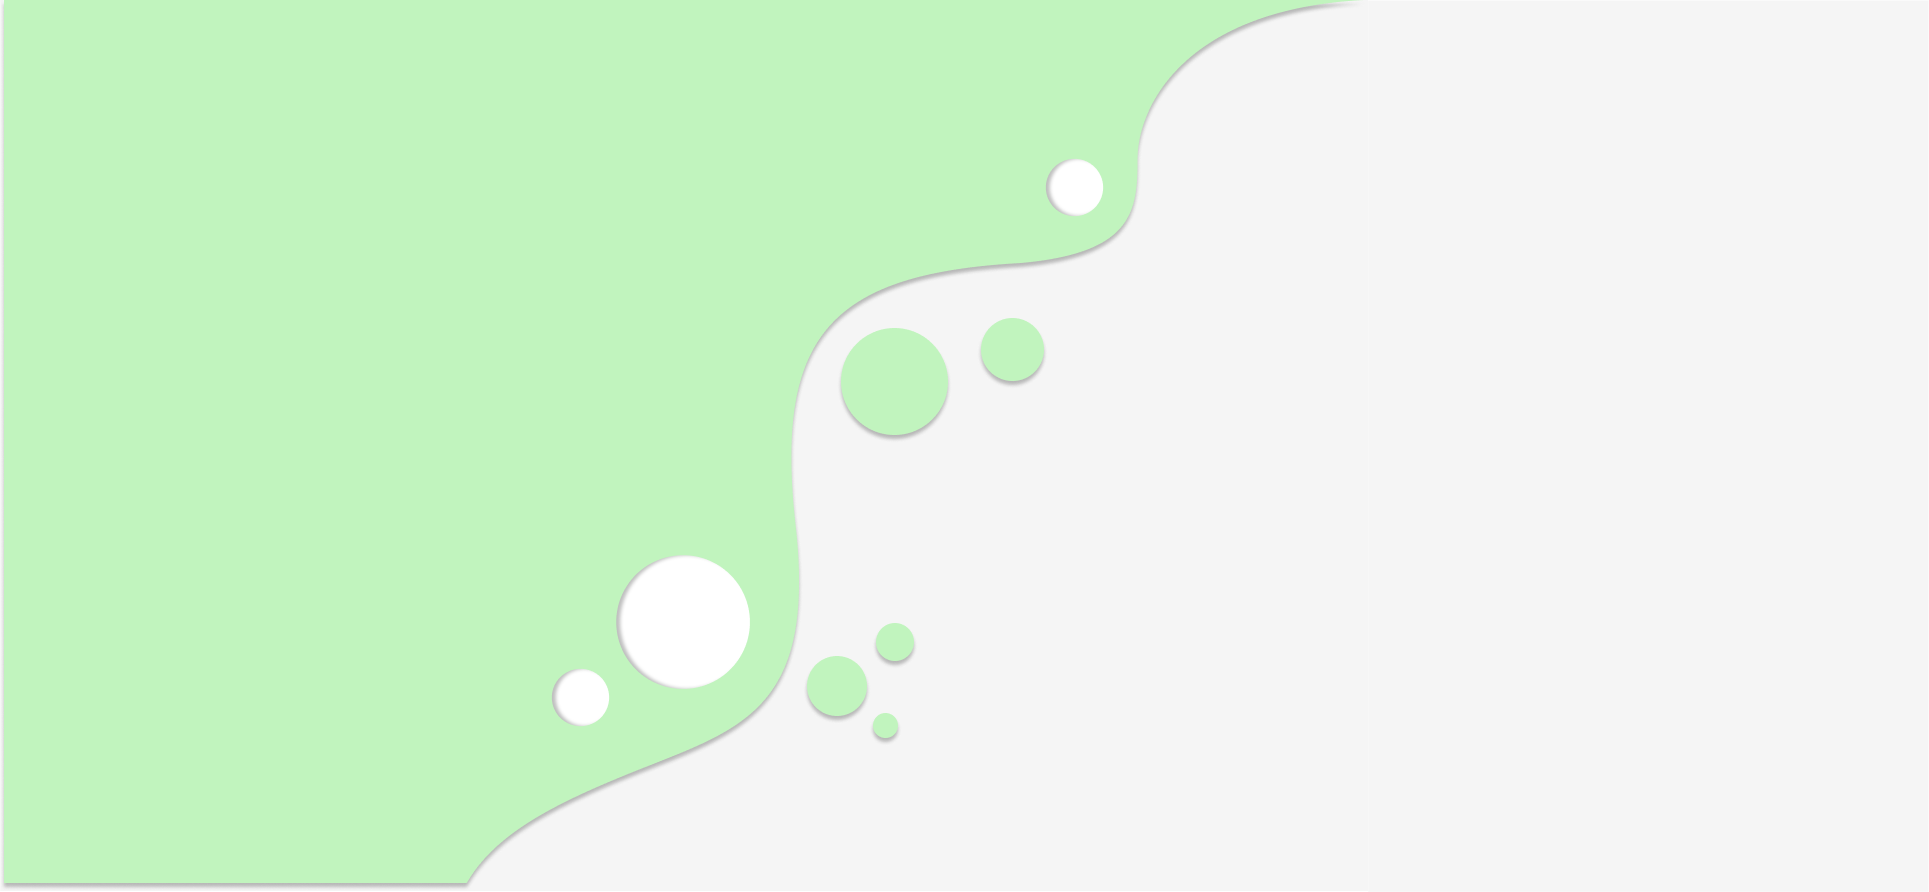
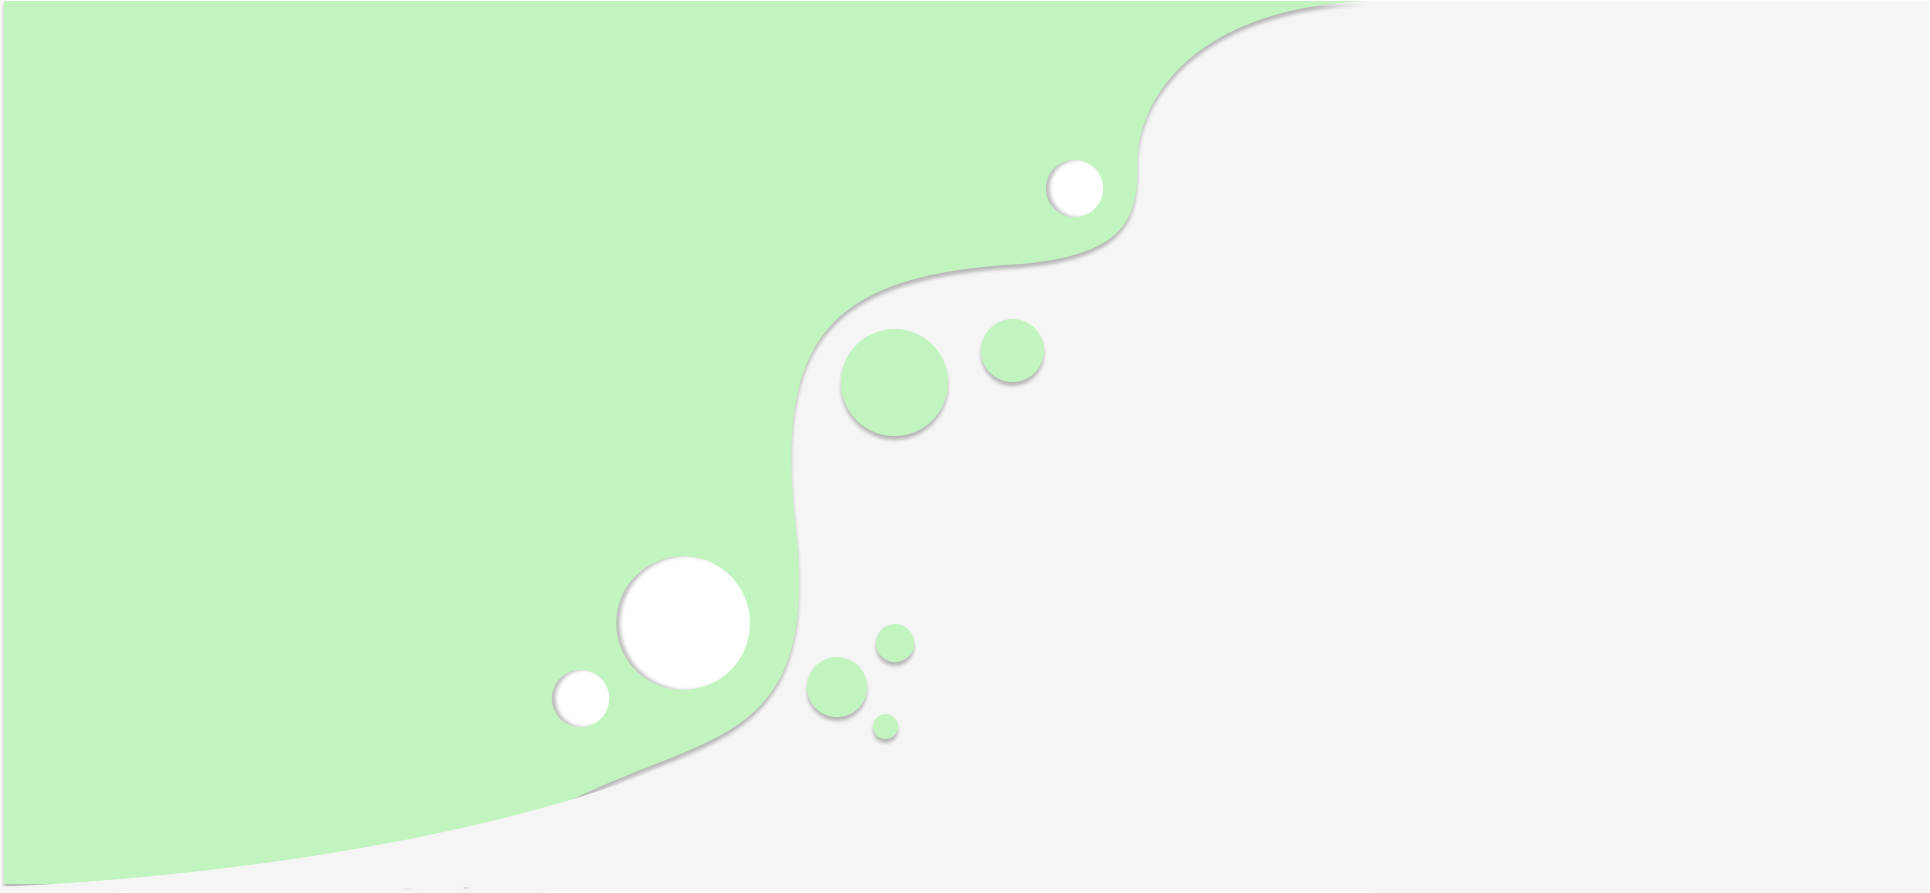
update home

Changed region(s): [[0.0311, 0.9081, 0.2799, 0.9989], [0.2799, 0.8778, 0.311, 0.9081]]

diff --git a/src/Pages/Home/Home.module.css b/src/Pages/Home/Home.module.css
@@ -1,16 +1,14 @@
 @import url('https://fonts.googleapis.com/css2?family=Mulish&display=swap');
 .row-container{
     width: 100%;
-    height: auto;
+    height: 100%;
     font-family: 'Mulish', sans-serif;
     color: #00432D;
-    background-color: #f5f5f5;
     background-image: url('../../../public/homeBG.png');
     background-repeat: no-repeat;
-     background-size: cover; 
+     background-size: contain; 
     margin:0;
     /* background-size: 100% 100%; */
-
 }
 @keyframes animate-pop {
     0% {
@@ -25,7 +23,7 @@
 .container-col-7{
     padding-left: 4rem;
     padding-top: 3.3rem;
-    padding-bottom: 3.3rem;
+    padding-bottom: 1rem;
     animation-name: animate-pop;
     animation-duration: 2s;
 }
@@ -42,7 +40,7 @@
 }
 .container-col-4{
     padding-top: 3.4rem;
-    padding-bottom: 3.3rem;
+    padding-bottom: 1rem;
     padding-left: 3.3rem;
     margin-left: 2rem;
 }

diff --git a/src/Layouts/Layout.js b/src/Layouts/Layout.js
@@ -1,7 +1,7 @@
 
 // i don't know why but dùng header nào thì import header đó thôi 
 // và comment cái (header) kia, vì khi import cùng lúc 2 header tui thấy bị lỗi
-
+import {Fragment} from 'react'
 import Header from './Header'
 // import Header_0 from './header_0/Header_0'
 
@@ -9,11 +9,11 @@ import Footer from './Footer'
 
 const Layout = (props) => {
     return (
-        <div>
+        <Fragment>
             <Header />
                 {props.children}
             <Footer />
-        </div>
+        </Fragment>
     )
 }
 export default Layout;

diff --git a/src/index.css b/src/index.css
@@ -15,3 +15,11 @@ body {
   flex-direction: column;
   justify-content: flex-start; 
 }
+#root{
+  display: flex;
+  min-height: 100vh;
+  flex-direction: column;
+  background-color: #f5f5f5;
+  position: relative;
+
+}

diff --git a/src/Layouts/Footer.css b/src/Layouts/Footer.css
@@ -3,6 +3,8 @@ footer {
     font-size: 0.8rem;
     color:  #145c44;
     padding: 0.8rem;
-    margin-top:auto; 
-
+    bottom: 0;
+    width: 100%;
+    height: auto;
+    margin-top: auto; 
 }
